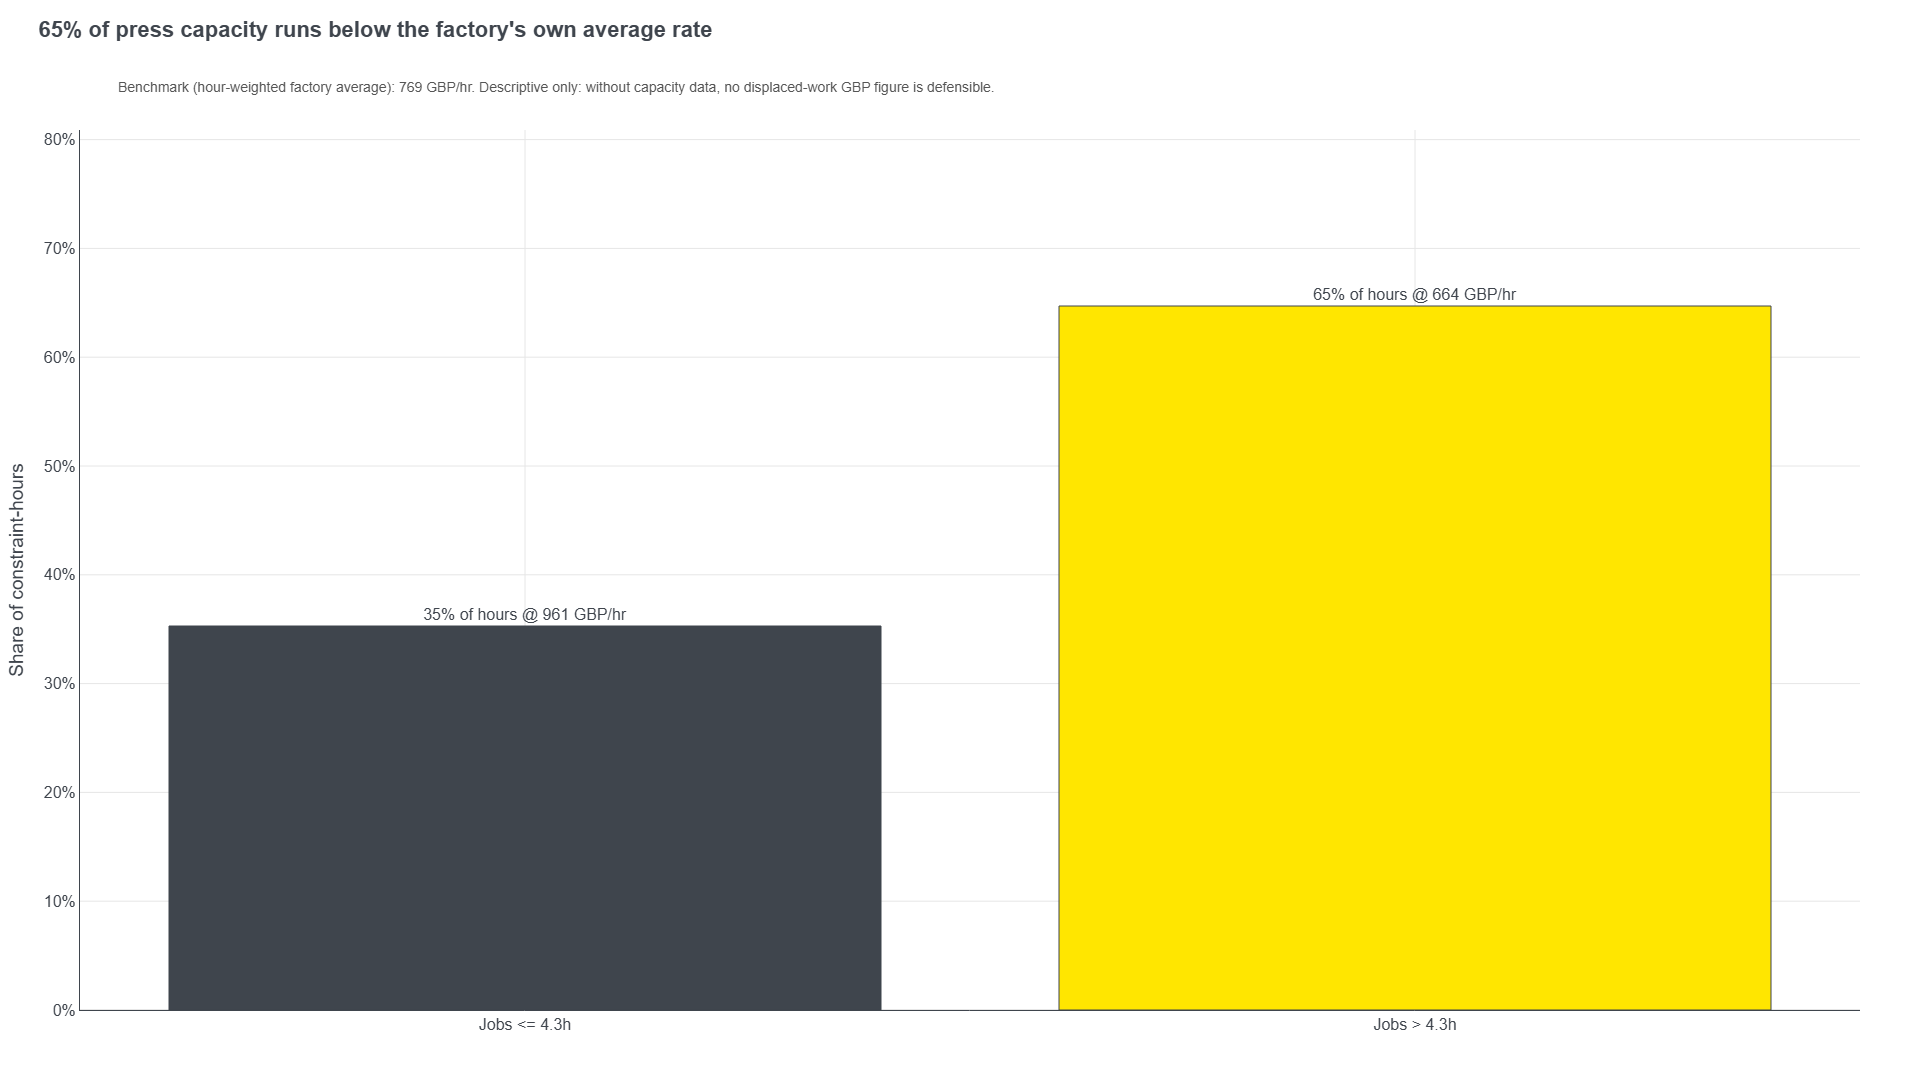
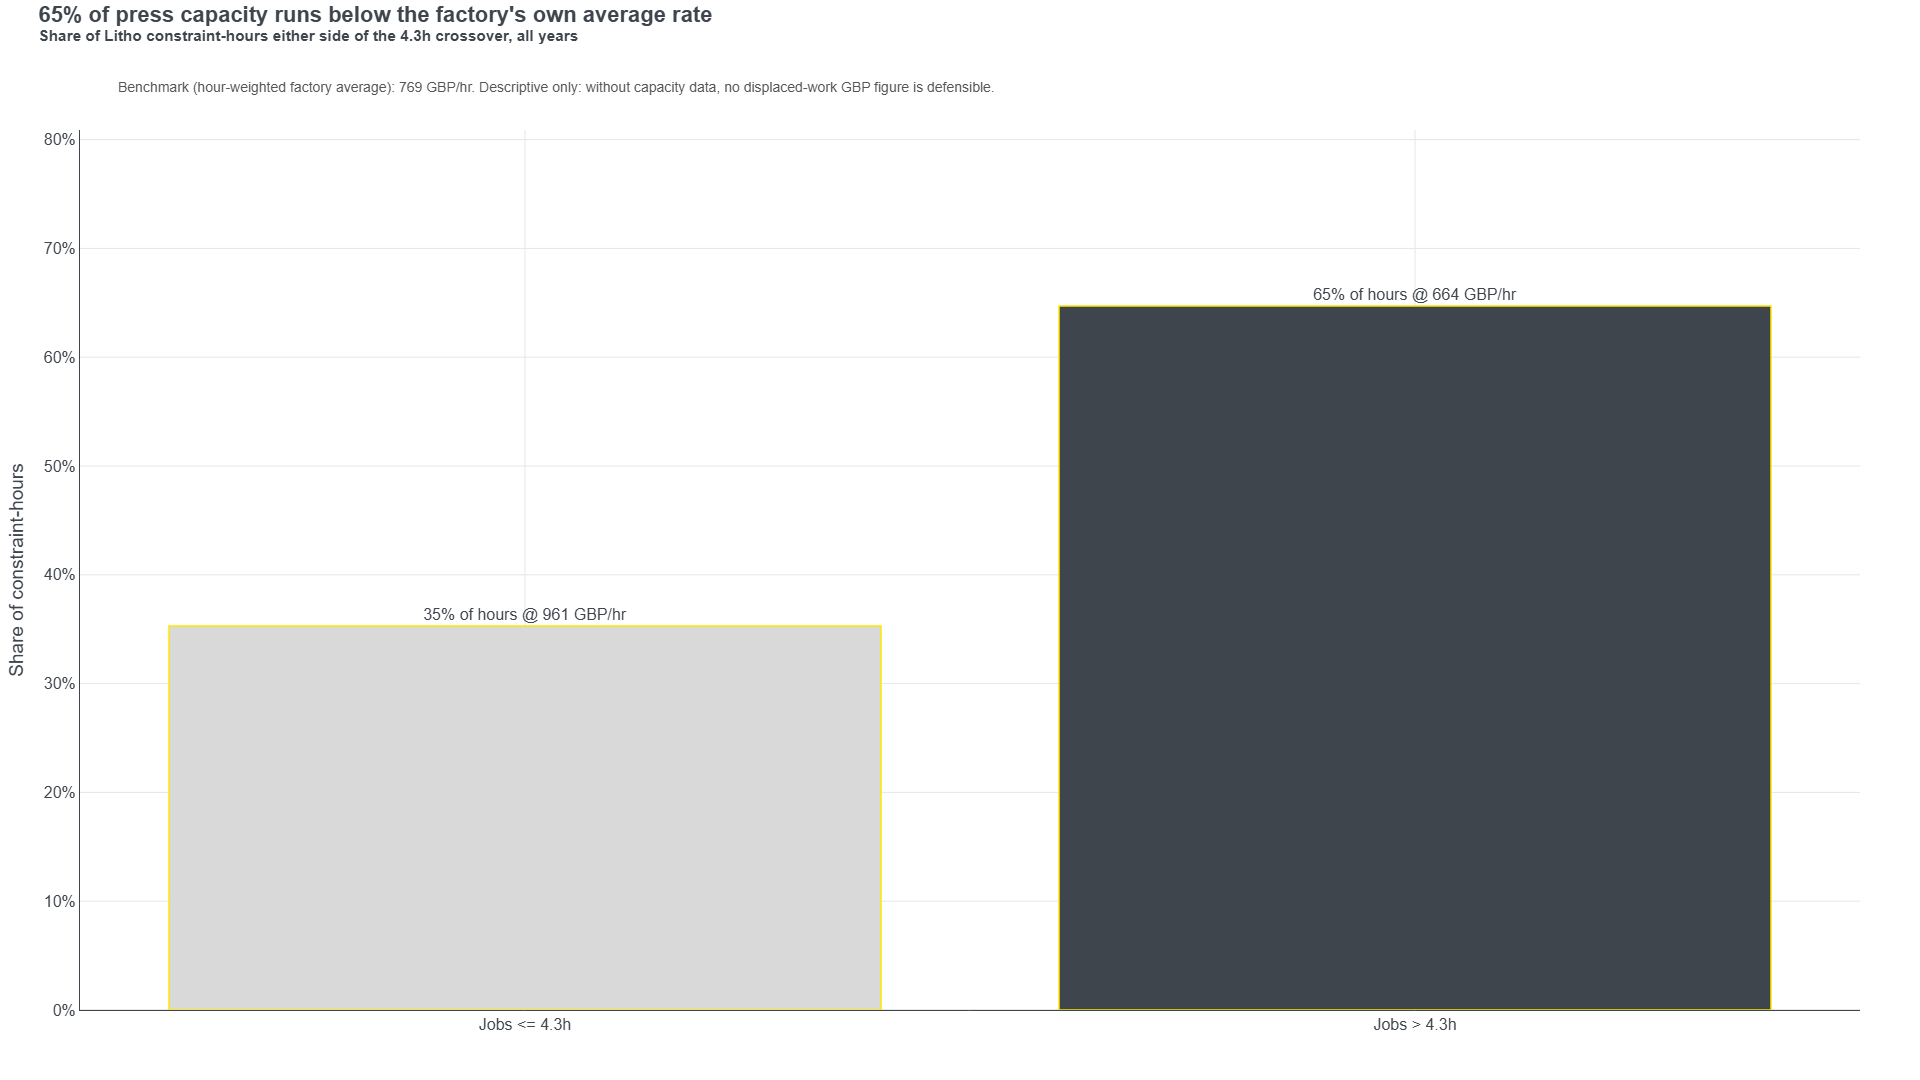
Regenerate slide assets in the new styling and update the README

diff --git a/README.md b/README.md
@@ -44,15 +44,41 @@ data trap planted.
 make api      # FastAPI on :8000; /docs is a deliverable, keep it open
 make web      # Next.js on :3000 (needs the API)
 make verify   # THE QA GATE, see below
-make test     # pytest (92 tests, fixture only, no real data needed)
+make test     # pytest (98 tests, fixture only, no real data needed)
 make lint     # ruff + mypy
 make assets   # writes assets/: every §12 presentation artefact
 make fixture  # regenerate the synthetic fixture
 ```
 
 First API request runs the full pipeline (~1–2 min); results are cached
-by file hash. The Overview page has the upload drop-zone, which is the
+by file hash. The Overview page has the upload control, which is the
 dynamic-system demo.
+
+## The app: three tabs
+
+- **Overview**: upload, a plain-language findings summary, the
+  validation and gap reports, the trend chart, and an "Evidence &
+  method" section holding every proof one click deep (the hypothesis
+  register, the nested decomposition, the BH pass, the two held-back
+  results, the override-learnability negative result, rush sensitivity,
+  seeds and the `/docs` link).
+- **Dashboards**: every chart panel on one page, led by the constraint
+  gauge. A year slicer refetches the descriptive panels with
+  `?year=YYYY`, recomputed in Python; model-backed panels always use the
+  full sample and wear a "full period" chip while a year is active,
+  because a per-year effect estimate would be a new analysis rather than
+  a filter. Panel toggles filter the view; Plotly legends toggle series.
+- **Customers & actions**: most valuable customers and types of work
+  (descriptive rankings with their caveats), and the ranked retention
+  call list with each account's historic contribution, plus the CSV.
+
+Chart titles state the finding; a smaller neutral line under each names
+the measurement. Styling follows the house dashboard register: white
+ground, bold sans, yellow as a thin accent (section rails, KPI card top
+borders, the uniform outline on chart marks) while category identity
+inside figures lives entirely in the charcoal/grey fills, so the accent
+encodes nothing. Figures are built once in Python, so the web view and
+the exported slides are the same artwork.
 
 Note: `uvicorn --reload` has proved unreliable on Windows here, dropping
 its file watcher after the first change. If a Python edit does not show
@@ -134,8 +160,8 @@ Current state: **24/24 checks green** against the real export.
 ## Hypothesis register
 
 `register.yaml` records every hypothesis; `checks.py` attaches outcomes
-at runtime, rendered live on the "Method & data" tab. Negative results
-are deliverables: rep effect (null), product type (in-sample only),
+at runtime, rendered live in the Overview's Evidence & method section.
+Negative results are deliverables: rep effect (null), product type (in-sample only),
 concentration (not a risk), optimal job size (does not exist), override
 learnability (no), rush×load interaction (unproven), rush main effect
 (demoted by BH).
@@ -145,7 +171,7 @@ learnability (no), rush×load interaction (unproven), rush main effect
 ```
 data/{raw (gitignored), sample}/   src/          analysis modules + pipeline
 api/                               frontend/     FastAPI · Next.js
-tests/ (92)                        assets/       exported presentation artefacts
+tests/ (98)                        assets/       exported presentation artefacts
 verify.py · export_assets.py · register.yaml · config.yaml · Makefile
 ```
 
